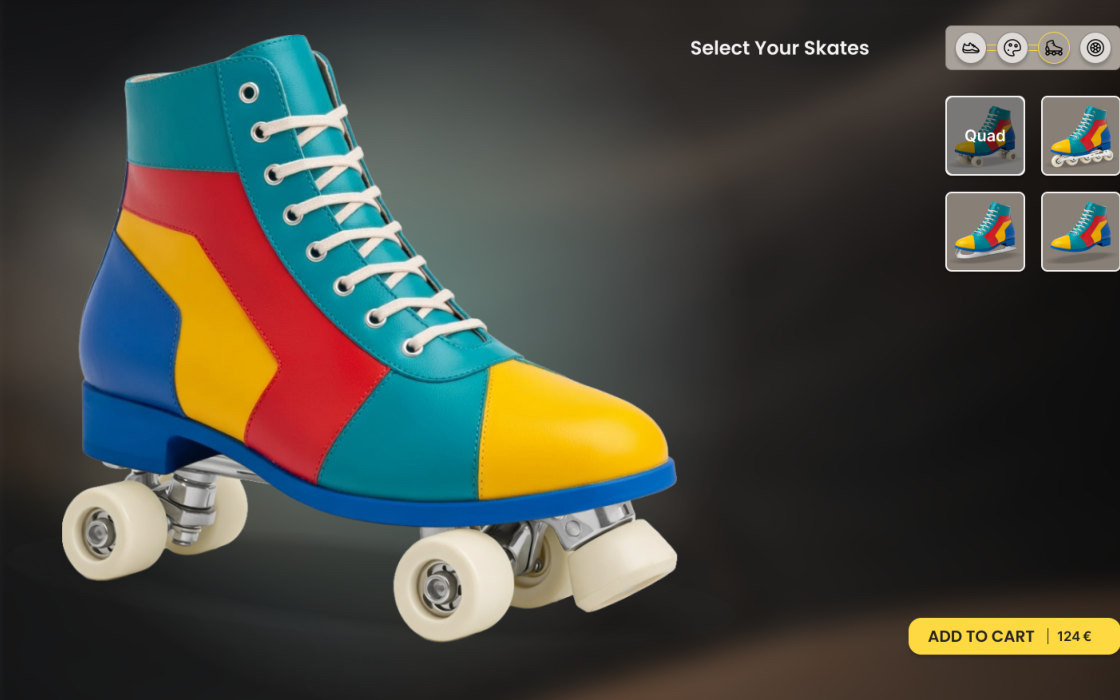
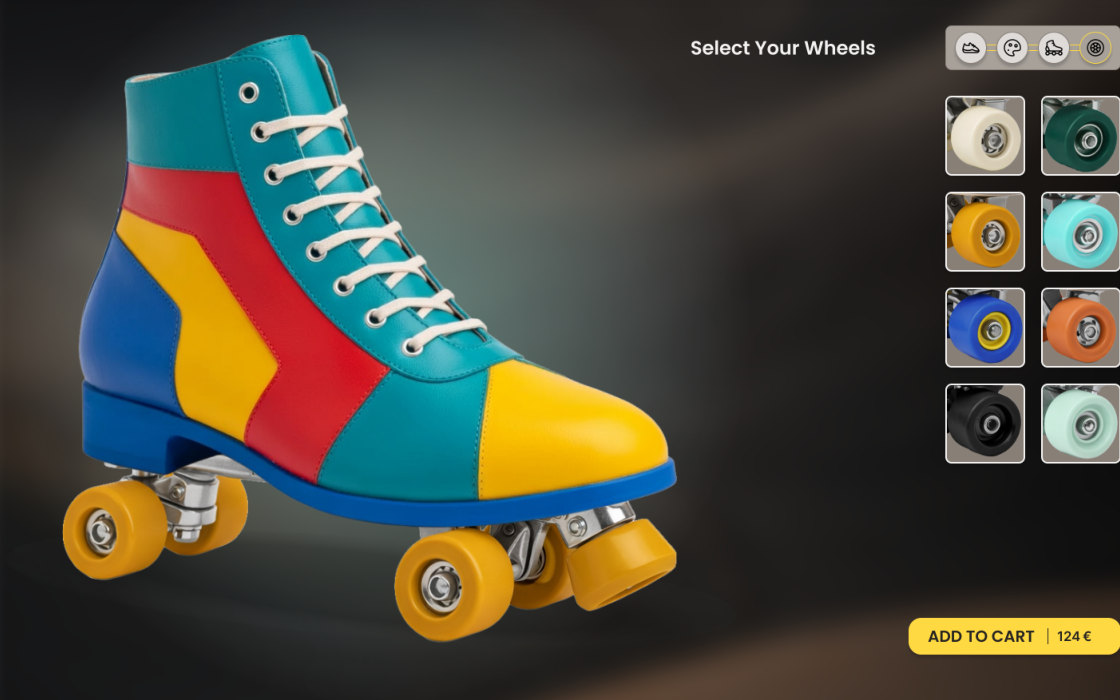
feat: eight figures extracted, five retired, and the thumb becomes the last step

diff --git a/scripts/extract-figures.py b/scripts/extract-figures.py
@@ -91,82 +91,144 @@ FIGURES = [
     {
         "out": "public/figures/rollhaus-thumb.jpg",
         "project": "rollhaus",
-        "png": "rollhaus_editor_quad.png",
+        "png": "rollhaus_editor_03.png",
         "crop": [22, 295, 2830, 2050],
         "width": 1120,
         "why": (
-            "The project-grid card. The editor viewport below the browser chrome, "
-            "cropped to 16:10 because the tile fixes that ratio and crops with "
-            "object-cover, so framing it here is the only way to control it. "
-            "Top edge sits just under the site logo rather than through it, "
-            "which is what fixes the width: 16:10 off a 1755px-tall viewport. "
-            "Chosen over a boot-only crop: at a 320px card the option panel and "
-            "the cart button are what make it read as a configurator rather "
-            "than a product photo, which is what the card's summary claims."
+            "The project-grid card, and since 2026-08-05 also the hero at the "
+            "top of the detail page, which the card morphs into. Both render "
+            "the same file so the view transition has one image to move rather "
+            "than two to cross-fade. Re-sourced from the wheels step of the new "
+            "progression, because the card promises the finished skate and the "
+            "old quad export is a different boot. Editor viewport below the "
+            "browser chrome, cropped to 16:10 because the tile fixes that ratio "
+            "and crops with object-cover, so framing it here is the only way to "
+            "control it."
         ),
     },
     {
-        "out": "public/figures/rollhaus-editor-quad.jpg",
+        "out": "public/figures/rollhaus-editor-shoe.jpg",
         "project": "rollhaus",
-        "png": "rollhaus_editor_quad.png",
+        "png": "rollhaus_editor_00.png",
         "crop": [22, 18, 2886, 2050],
         "width": 1400,
         "why": (
-            "Left half of the two-state comparison, Quad selected. Native "
-            "2916x2086 with alpha; the crop insets 10px into the mockup's "
-            "rounded window so no transparent corner survives the flatten to "
-            "JPEG. Browser chrome is kept deliberately: Leonid, 2026-07-31, "
-            "the PageName placeholder in the tab shows the system behind it."
+            "Step 1 of 4. Leonid clicked these four states in the prototype on "
+            "2026-08-05 and exported them at an identical 2916x2086, so all four "
+            "share one crop and any difference between the images is a "
+            "difference in the product. This one is the boot with nothing "
+            "mounted, which is the state the old quad-versus-inline pair could "
+            "not show: the reader starts from almost nothing and watches the "
+            "option space open. Browser chrome kept, per Leonid 2026-07-31: the "
+            "PageName placeholder in the tab shows the system behind it."
         ),
     },
     {
-        "out": "public/figures/rollhaus-editor-inline.jpg",
+        "out": "public/figures/rollhaus-editor-pattern.jpg",
+        "project": "rollhaus",
+        "png": "rollhaus_editor_01.png",
+        "crop": [22, 18, 2886, 2050],
+        "width": 1400,
+        "why": (
+            "Step 2 of 4, the pattern applied and still no mount. Identical crop "
+            "to its three siblings on purpose. The eight swatches in the panel "
+            "are the pattern axis of the atoms figure, seen from the product "
+            "side."
+        ),
+    },
+    {
+        "out": "public/figures/rollhaus-editor-skates.jpg",
         "project": "rollhaus",
         "png": "rollhaus_editor_02.png",
         "crop": [22, 18, 2886, 2050],
         "width": 1400,
         "why": (
-            "Right half of the same comparison, Inline selected. Identical crop "
-            "to the Quad state on purpose: the figure's whole claim is what "
-            "changes between them, so any difference in framing would be read "
-            "as part of the answer. Matched pair, same colourway, same step, "
-            "same 124 EUR. The Hi-Fi canvas carries no inline editor state, so "
-            "these two PNGs are the only shipped-fidelity source for this."
+            "Step 3 of 4, the quad appears. The strongest of the four: its own "
+            "panel thumbnails are the already-configured boot drawn as a quad, "
+            "an inline, an ice skate and a plain shoe, which is the case "
+            "study's claim that a thumbnail is an instance of the product "
+            "rather than a static icon. This source file replaced the old "
+            "inline-selected export of the same name on 2026-08-05."
         ),
     },
     {
-        "out": "public/figures/rollhaus-panel-before.jpg",
+        "out": "public/figures/rollhaus-editor-wheels.jpg",
+        "project": "rollhaus",
+        "png": "rollhaus_editor_03.png",
+        "crop": [22, 18, 2886, 2050],
+        "width": 1400,
+        "why": (
+            "Step 4 of 4, the wheels recolour. Eight colourways in the panel, "
+            "each one a mode in the Wheels collection carrying its own type and "
+            "price, which the variables figure shows directly. Same frame as the "
+            "thumb crop above, so the card and the last step of the progression "
+            "are the same picture at two sizes."
+        ),
+    },
+    {
+        "out": "public/figures/rollhaus-atoms.jpg",
         "project": "rollhaus",
         "pdf": COMPONENTS,
         "page": 0,
-        "clip": [0.1050, 0.2996, 0.1415, 0.4195],
-        "width": 700,
+        "clip": [0.0045, 0.1228, 0.1825, 0.2665],
+        "width": 1400,
         "why": (
-            "The merged column inside the `Editor Molecules` frame: Shoe, then "
-            "Pattern, then Skates, then Wheels as one continuous scroll. The "
-            "crop stops short of the column at x=0.1585, which carries the "
-            "strings 'Custom Inline Skates Coming Soon' and the ice equivalent, "
-            "because the per-type wheel sets were not all built. Do not widen."
+            "The `Skates Atoms` frame, replacing the option-tree screenshot that "
+            "stood at this position until 2026-08-05. That figure was a picture "
+            "of text on a page arguing it needed more pictures, and the prose in "
+            "the section below already enumerates the same option space. Three "
+            "mounts, sixteen boots as eight patterns by two lasts, and eight "
+            "wheel colourways: the option space as parts rather than as a list. "
+            "Box covers all three component sets and stops at the frame edge."
         ),
         "open": (
-            "This structure demonstrably exists in the file, but nothing in the "
-            "sources proves it is the exact screen the 18 Maze participants "
-            "clicked. Leonid, 2026-07-31: caption it as two panel structures, "
-            "not as a test artefact, until that is confirmed. Guardrail 1."
+            "Figma's dashed violet component-set outlines are inside this crop "
+            "and cannot be excluded without cutting content. Kept on the "
+            "argument that a UX/UI reader reads them as component sets "
+            "instantly, which is the section's point. Reversing this means "
+            "dropping the figure, not tightening the box."
         ),
     },
     {
-        "out": "public/figures/rollhaus-panel-after.jpg",
+        "out": "public/figures/rollhaus-variables.png",
         "project": "rollhaus",
-        "pdf": COMPONENTS,
-        "page": 0,
-        "clip": [0.0218, 0.4679, 0.0684, 0.5932],
-        "width": 900,
+        "png": "Variable.png",
+        "crop": [0, 38, 1920, 500],
+        "width": 1600,
         "why": (
-            "The left column of the frame Figma itself names `SideBarRework`: "
-            "four categories, each a four-icon selector with the active step "
-            "ringed and the connector filled, above its own option grid. This "
-            "is the rework sentence in the case study rendered as an image."
+            "The Figma variables panel, and the strongest single artifact in "
+            "this case study. Eleven collections scoped by domain, and the "
+            "Wheels collection open with its modes as columns: Default, Yellow, "
+            "Green, Water blue, Blue, Orange, Black, each setting WheelColor, "
+            "WheelType and WheelPrice together. That is the record's own "
+            "sentence, one mode switch reconfiguring several linked elements at "
+            "once, and it is the only evidence anywhere for modes, which the "
+            "page could previously only assert. PNG rather than JPEG: flat dark "
+            "UI and small type. The crop starts at y=38 to drop the browser tab "
+            "strip, which carried unrelated tabs."
+        ),
+        "open": (
+            "The `Test Radio Buttons` collection and two empty collections are "
+            "visible and stay. They corroborate the footnote the page already "
+            "ships, that this was a first variables project and the naming is "
+            "ad hoc. Cropping them out would be tidying the evidence."
+        ),
+    },
+    {
+        "out": "public/figures/rollhaus-debug.png",
+        "project": "rollhaus",
+        "pdf": HIFI,
+        "page": 0,
+        "clip": [0.4190, 0.2250, 0.5530, 0.2620],
+        "width": 1700,
+        "why": (
+            "The debug panel left on the cart screen during the build, printing "
+            "live variable state in four groups. Scouted and cut on 2026-07-31 "
+            "because two working-note figures on one page was one too many; the "
+            "page it was cut from no longer exists. It is the second half of the "
+            "variables pair: the panel above defines the state, this shows a "
+            "product screen reading it. PNG for the same reason the variables "
+            "crop is."
         ),
     },
     {
@@ -184,21 +246,6 @@ FIGURES = [
             "inline. Same boot, different mount, shown in the product rather "
             "than in a parts diagram. Box covers the Quads heading down to the "
             "bottom of the Ice row and stops above 'Make it yours'."
-        ),
-    },
-    {
-        "out": "public/figures/rollhaus-options.png",
-        "project": "rollhaus",
-        "pdf": LOFI,
-        "page": 0,
-        "clip": [0.7006, 0.1351, 0.7654, 0.2471],
-        "width": 1400,
-        "why": (
-            "The Lo-Fi working note enumerating the option space down to ball "
-            "bearings and inline sub-type by wheel count. Box covers the pink "
-            "plate and its 'Customization Options' title tab, so it reads as "
-            "the note it is. The empty upper third is the note's own layout and "
-            "is kept rather than cropped into, which would cut its corners off."
         ),
     },
     {
@@ -308,11 +355,21 @@ FIGURES = [
 #   [0.84, 0.19, 0.98, 0.29], is a stock reference image rather than Leonid's or
 #   Yassine's work. Guardrail 4, do not use.
 #
-#   The Hi-Fi debug variable panel, hifi clip [0.4190, 0.2250, 0.5530, 0.2595]
-#   at width 1800, names the variables driving the cart screen and is the
-#   strongest evidence on the canvas for "built on Figma variables and modes".
-#   Verified and then cut on 2026-07-31: Leonid took the option tree instead,
-#   and two working-note figures on one page is one more than the page can hold.
+#   The Hi-Fi debug variable panel was cut on 2026-07-31 and restored on
+#   2026-08-05 as `rollhaus-debug.png`. The reason it was cut, that the page
+#   could not hold two working-note figures, went away when the option tree it
+#   was competing with was retired.
+#
+#   The slot trio, Cart / Checkout / Confirmation on the Hi-Fi canvas showing one
+#   Base Card slotted three ways. Four boxes were tried on 2026-08-05 and all
+#   four were rejected: [0.4290, 0.655, 0.9450, 0.980] carries the red annotation
+#   and its caption; [0.4345, 0.6640, 0.9395, 0.9230] leaves a red sliver at the
+#   top and cuts the suggestion cards mid-card; [0.4425, 0.6660, 0.9220, 0.8600]
+#   clips the first product image at the left edge; and a panels-only band at
+#   roughly 7:1 renders the summary type too small to read. The three screens sit
+#   at different heights with dead canvas between them, so no single box is both
+#   legible and complete. The slot argument moved into the rollhaus-slots embed
+#   instead, which is where a mechanism belongs. Do not re-derive these.
 #
 #   A standalone clean editor viewport, hifi clip [0.2350, 0.0855, 0.3665,
 #   0.2270] at width 1600. It replaces the "Patten" typo and the clipped summary
